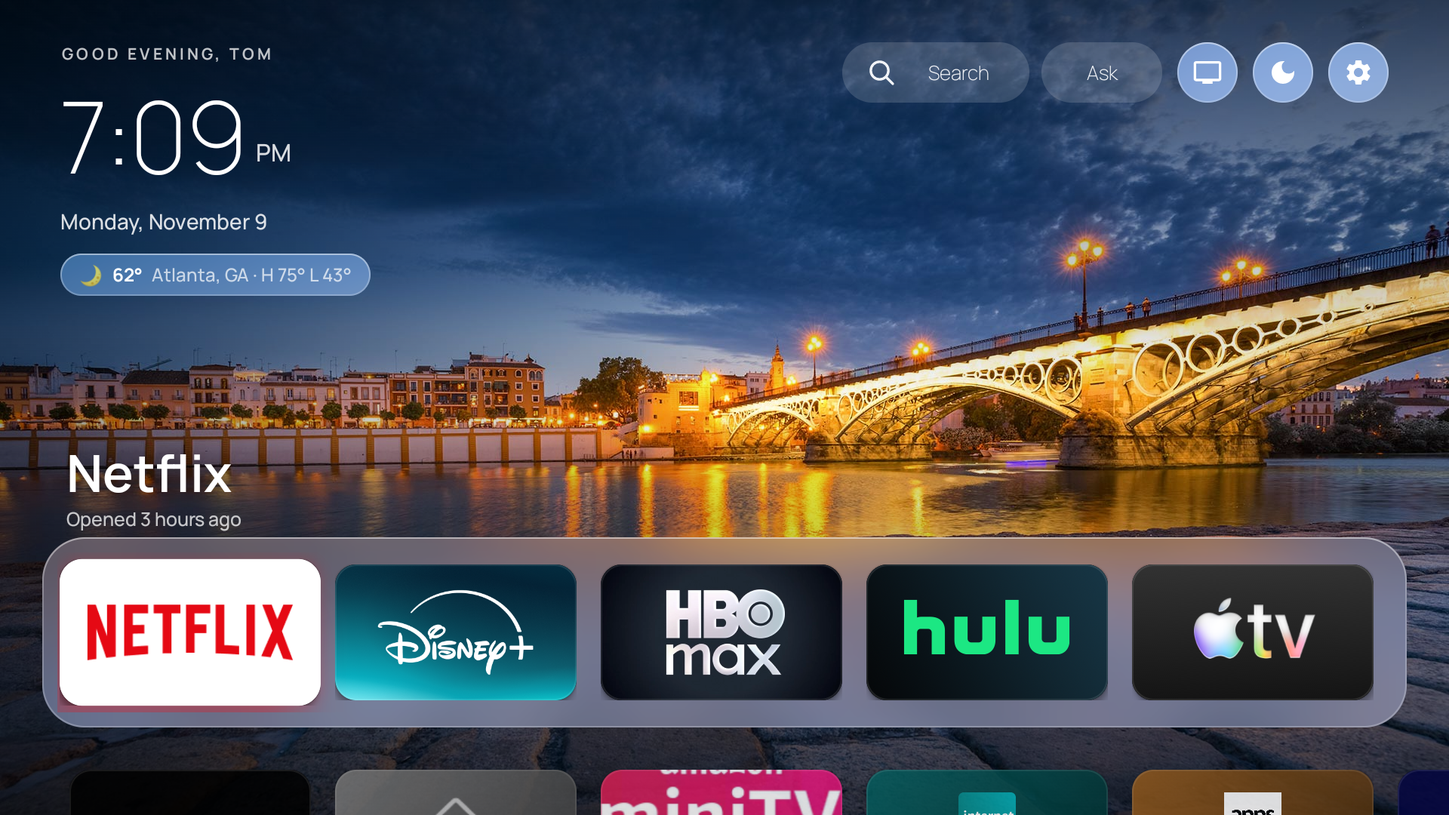
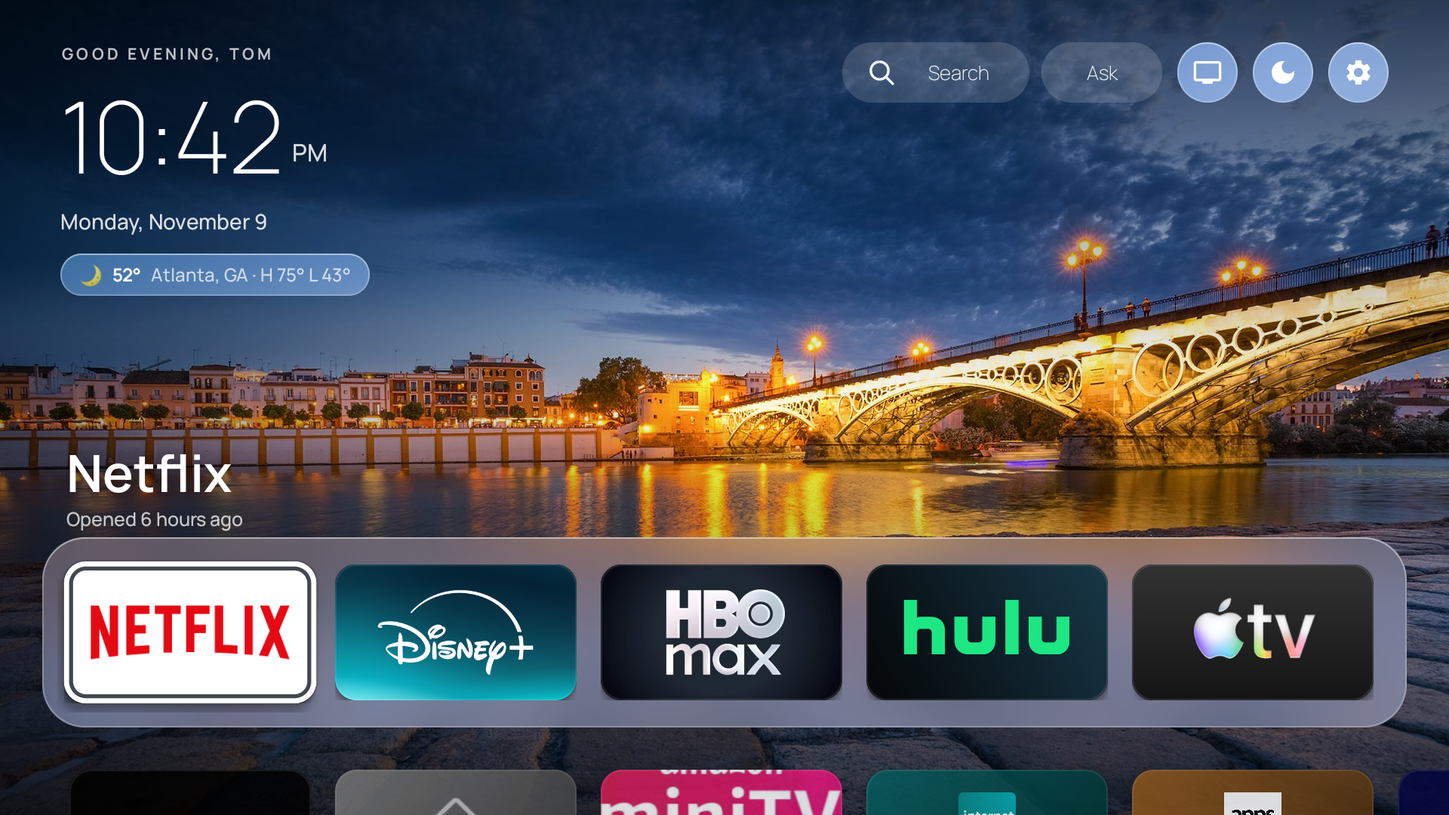
Showcase AttuneTV with real screenshots and clear companion positioning

Changed region(s): [[0.0312, 0.6722, 0.2188, 0.8861], [0.0312, 0.1222, 0.2188, 0.2139], [0.0938, 0.6111, 0.1562, 0.6417]]

diff --git a/README.md b/README.md
@@ -2,165 +2,182 @@
 
 # AttuneTV
 
-### Your TV. Beautifully yours.
+### A calmer home. A conversation about what’s on.
 
-A cinematic, ad-free home screen for Fire TV.<br>Your favorite apps. A fresh view every day. Everything within reach.
+A cinematic, ad-free home screen for Fire TV.<br>An optional AI viewing companion that brings your TV and phone into the same conversation.
 
-[![Build APK](https://github.com/thellis954/attunetv/actions/workflows/build.yml/badge.svg?branch=claude%2Fblissful-hypatia-4dfwls)](https://github.com/thellis954/attunetv/actions/workflows/build.yml) ![Platform: Fire TV](https://img.shields.io/badge/Fire_TV-Android_7.1%2B-152d39?style=flat-square) ![Built with Kotlin](https://img.shields.io/badge/Built_with-Kotlin-7f52ff?style=flat-square) ![Status: Early preview](https://img.shields.io/badge/Status-Early_preview-cce9df?style=flat-square&labelColor=243f39)
+[![Build APK](https://github.com/thellis954/attunetv/actions/workflows/build.yml/badge.svg?branch=claude%2Fblissful-hypatia-4dfwls)](https://github.com/thellis954/attunetv/actions/workflows/build.yml) [![Companion checks](https://github.com/thellis954/attunetv/actions/workflows/samsung.yml/badge.svg?branch=claude%2Fblissful-hypatia-4dfwls)](https://github.com/thellis954/attunetv/actions/workflows/samsung.yml) [![Public APK](https://img.shields.io/github/v/release/thellis954/attunetv?label=public%20APK&color=246878)](https://github.com/thellis954/attunetv/releases/latest) ![Status: Early preview](https://img.shields.io/badge/status-early_preview-d8ad70)
 
-**[Get started](docs/install.md)** · **[Download APK](https://github.com/thellis954/attunetv/releases/latest/download/AttuneTV.apk)** · **[Build & contribute](CONTRIBUTING.md)** · **[Report a bug](https://github.com/thellis954/attunetv/issues/new)**
+**[Install on Fire TV](docs/install.md)** · **[Try the AI companion](https://attunetv-samsung.vercel.app/tv)** · **[Build with us](CONTRIBUTING.md)**
 
-![AttuneTV running on a Fire TV: a full-screen evening photograph, large clock, Search and Ask buttons, and a glass dock with Netflix, Disney+, HBO Max, Hulu and Apple TV.](docs/images/home-fire-tv.png)
+![AttuneTV Home on a real Insignia Fire TV: daily photograph, large clock, Search and Ask, and a glass favorites dock with a white focus ring.](docs/images/home-fire-tv.png)
 
-<sub>Actual Fire TV screenshot, captured on an Insignia TV running AttuneTV 0.4.1. Streaming apps are installed separately.</sub>
+*Real Insignia capture · 0.5.0 development build · Streaming apps are installed separately.*
 
 </div>
 
-## Make room for what you love
+**Settle in. Find your show. Follow your curiosity.** AttuneTV starts with a home screen you control: your apps, your order, a daily photograph and room to breathe. Its companion preview adds a place to ask about the story—with shared viewing context and conversation history on TV and phone.
 
-Turn on your TV and land somewhere that feels like home. A beautiful daily photograph. A quiet clock. The apps you chose, exactly where you put them.
+**Free to download. No always-on computer. Chat is optional; provider API usage is billed separately.**
 
-AttuneTV replaces the Fire TV home experience with a fast, remote-friendly launcher. No sponsored rows or autoplaying trailers on your home screen. No rooting. Your streaming apps, subscriptions and Amazon settings stay in place.
+> **Choose the right preview:** the public Fire TV download is **0.4.2**. The shared API-key chat shown below is in **0.5.0 development source** and the **hosted companion preview**, not that older APK. Samsung installation and live AI/playback verification are still in progress. [What works today ↓](#what-works-today)
 
-| A better way to… | What you get |
-| --- | --- |
-| **Settle in** | Daily photo backgrounds, frosted glass, a large clock and a personal greeting. Choose a photo, app-color glow or one of five dark themes. |
-| **Find something to watch** | A visible **Search** button for installed apps and a shortcut to Fire TV's movie and show search. |
-| **Keep your favorites close** | A dock of real app artwork. Pin, reorder and hide apps with the remote. Press **Down** for all apps. |
-| **Make it personal** | Weather, your next calendar event, 12/24-hour time and a photo ambient mode. |
-| **Skip the remote typing** | Scan a QR code to customize your home screen from your phone on the same Wi-Fi. |
-| **Explore what's next** | **Ask with AttuneTV**, a TV-and-phone AI companion in early preview. [See its current status ↓](#meet-ask-with-attunetv) |
+## A home screen worth coming home to
+
+Daily photography, frosted glass and clear remote focus give your apps a home of their own. Pin the ones you love. Hide the ones you never open. Press Down to see everything.
 
 <table>
 <tr>
-<td width="50%"><img src="app/src/test/snapshots/images/com.attunetv.launcher_HomeSnapshotTest_all_apps.png" alt="All-apps grid over a blurred background"><br><strong>Your whole app library.</strong> One press down from the dock.</td>
-<td width="50%"><img src="app/src/test/snapshots/images/com.attunetv.launcher_HomeSnapshotTest_app_menu.png" alt="Dark glass app menu with Open, Pin, Move, Hide and App info"><br><strong>Your layout, your call.</strong> Organize from the couch.</td>
+<td width="50%"><a href="docs/images/apps-fire-tv.png"><img src="docs/images/apps-fire-tv.png" alt="All-apps grid on an Insignia Fire TV, with the AirPlay tile focused" width="100%"></a><br><strong>Your apps, within reach.</strong><br>One press down from the dock.</td>
+<td width="50%"><a href="docs/images/menu-fire-tv.png"><img src="docs/images/menu-fire-tv.png" alt="Remote-controlled app menu offering Open, Pin to Favorites, Move, Hide and App info" width="100%"></a><br><strong>Make it yours from the couch.</strong><br>Pin, move and hide with the remote.</td>
 </tr>
 </table>
 
-<sub>These two images are layout test renders with placeholder app art. The large screenshot above is from a real TV.</sub>
+*Actual Insignia screenshots from 0.3.3. Earlier artwork and styling are visible. [Screenshot versions and provenance](docs/images/README.md).*
 
-## Get it on your TV
-
-**You don't need to be a developer.** You need a compatible Fire TV, its remote and a Mac, Windows or Linux computer for the one-time installation. After setup, the launcher runs on the TV; the computer can be shut down.
-
-1. **[Download AttuneTV.apk](https://github.com/thellis954/attunetv/releases/latest/download/AttuneTV.apk).** No GitHub account, source-code download or build tools required. [Release notes & checksums](https://github.com/thellis954/attunetv/releases/latest).
-2. **Connect to your TV.** Put the computer and TV on the same Wi-Fi, enable ADB debugging and approve the connection with your remote.
-3. **Install and make it Home.** Follow the copy-and-paste steps, then personalize it with your phone.
-
-### [Start the step-by-step installation →](docs/install.md)
-
-The guide includes **Mac, Windows and Linux instructions**, expected results, updates, troubleshooting and how to go back. No Android Studio or coding required to install a prebuilt APK.
-
-> **Early preview:** the launcher has been tested on an Insignia NS65-UQFL26 with Fire OS 8.1.6.4. Other Android-based Fire TVs are unverified. The APK is sideloaded; there is no app-store or one-click installer yet. Official releases share a consistent signing key for updates. Earlier development builds may need special handling. [Compatibility & update details](docs/install.md#before-you-start).
+| Make the TV yours | How AttuneTV helps |
+| --- | --- |
+| **Find an app or a film** | Search installed apps locally, or jump to Amazon’s movie and show search. |
+| **Set the mood** | Daily photo backgrounds, dark themes, an ambient photo mode and a personal greeting. |
+| **See the useful things** | A large clock, optional weather and your next calendar event. |
+| **Skip remote typing** | Scan a QR code to personalize the launcher from your phone on the same Wi-Fi. |
+| **Keep your existing setup** | No root or Amazon-package removal. Your streaming subscriptions and apps stay in place. |
 
 ## Meet Ask with AttuneTV
 
-**The idea: a conversation beside what you're watching.** Ask about a character, untangle a plot point or explore the story behind a film, right on your TV.
+**Keep the story on the big screen. Take the conversation with you.**
 
-The Fire TV preview and Samsung companion now share **guided API-key setup and a conversation on your phone**. Choose OpenAI, Claude, Grok or Kimi. No always-on Mac is required. Chat is optional; the launcher works without it.
+The companion preview gives TV and phone one shared conversation. Supply the show, episode and where you are; describe the moment you want to explore. Choose **OpenAI, Claude, Grok or Kimi** through guided API-key setup.
 
-**Set up:** open **Ask → Pair phone**, scan the QR code, and approve the matching number with the TV remote. The phone guide explains creating an API key, provider billing, model selection and a daily question limit. Enter the key on your phone, never in a chat message. API usage is billed separately from consumer chat subscriptions.
+Questions to try once connected:
 
-**Keep talking:** set the movie/show, episode and progress on either screen. Questions and answers sync between the native Fire TV panel and phone. Phone dictation appears where the browser supports it; you review the words before sending. You can also use your phone keyboard's microphone. TV remote voice is not advertised where the device cannot supply it.
+- “We’re halfway through episode two. Can you explain the relationship between these characters?”
+- “I’m watching a film set in 1920s Chicago. What historical context would help?”
+- “What should I pay attention to in this director’s use of color?”
 
-**Where it stands today:** version 0.5.0 is a development preview. Pairing, context synchronization, draft protection and provider contracts have automated coverage. Real model responses and streaming playback compatibility still require device verification. Streaming-app chat stays **hidden in normal builds** until that verification passes; explicitly labeled playback-test builds can exercise candidate apps.
+![AttuneTV companion browser preview with viewer-entered show and episode context beside a shared conversation. The answer is explicitly labeled Test response.](docs/images/companion-tv.png)
 
-Prime Video, Netflix, Apple TV, Disney+, Hulu, HBO Max, Peacock and Paramount+ are **integration targets, not a confirmed support list**. Each must pass playback, remote-input and dismissal checks before its overlay is enabled.
+*Browser test capture of the actual companion UI. The displayed answer is a test fixture, not a live model response or a Samsung-device capture.*
 
-The assistant does not watch or listen to your video. You can supply a title, episode or scene description; automatic playback information depends on what the app and device expose. Answers can be wrong or contain spoilers.
+### Pair once. Keep talking.
 
-[Read the native architecture and verification checklist →](docs/standalone-chat.md)
+<p align="center"><a href="docs/images/companion-phone.png"><img src="docs/images/companion-phone.png" width="260" alt="Phone companion with shared viewing context, conversation, question field and optional Dictate button"></a></p>
 
-## Samsung TV companion — hosted preview
+1. **Scan and approve.** Open **Pair phone**, scan the QR code and approve the matching number on the TV. To explore today, open the hosted preview on a computer and pair your phone.
+2. **Connect the AI you choose.** The phone guide links to your provider’s billing and API-key pages, checks access, and lets you select a model and daily question limit. Enter your key privately on the phone.
+3. **Set what’s playing.** Add a title, episode and progress. Ask on either screen. The phone conversation can continue after the TV companion closes, so you can return to your streaming app.
+4. **Type—or dictate where supported.** Compatible phone browsers offer Dictate; review the words before sending. Your phone keyboard’s microphone is another option. TV remote voice support varies.
 
-**Keep watching on the TV. Keep the conversation on your phone.** A separate
-Tizen preview adds full-screen TV chat, QR-paired phone chat and a shared
-conversation with movie, episode and progress context you supply.
 
-Its phone setup walks you through getting your own **OpenAI, Claude, Grok or Kimi
-API key**, reviewing provider billing, checking access and choosing a model.
-API usage is billed by your provider; it is not automatically included in a
-consumer chat subscription. The companion uses a hosted service so the phone
-can keep chatting while Samsung suspends the TV app. Viewers do not need an
-always-on Mac.
+*Phone browser test capture; its answer and speech recognition use test fixtures. No real API key appears in these screenshots.*
 
-**[Try the hosted preview](https://attunetv-samsung.vercel.app/tv)** — pair your
-phone and follow the guided API-key setup. Hosting runs on Vercel with persistent
-Neon storage. Deployed pairing and cross-screen context sync are verified;
-Samsung hardware installation and real provider calls are still pending. This is not the Fire TV APK, and it cannot overlay Samsung’s
-built-in streaming apps. [Samsung preview, setup and deployment guide](samsung/README.md).
+**Your context, your choice.** AttuneTV does not capture the movie, listen to its soundtrack or read its subtitles. It uses the question and viewing context you provide; any automatic playback metadata depends on the app and device. Episode/progress instructions help limit spoilers, but accuracy and spoiler avoidance are not guaranteed.
+
+**[Open the hosted companion preview →](https://attunetv-samsung.vercel.app/tv)**
+
+## Why this combination?
+
+A quiet launcher makes choosing something easier. A viewing companion gives curiosity somewhere to go after you press Play. AttuneTV brings them together around three choices:
+
+- **Your screen:** personal Home, visible search and remote-first navigation.
+- **Your AI:** a choice of provider and model, with setup guidance and explicit API costs.
+- **Your place to chat:** a shared TV-and-phone conversation, including a phone path when the TV platform cannot show an overlay.
+
+Custom launchers such as [Projectivy](https://github.com/spocky/miproja1) and [Clean Your TV](https://github.com/Gathin23/cleanyourtv) already make a strong case for a better home screen. [Gemini on Google TV](https://support.google.com/googletv/answer/16522213?hl=en) and [Prime Video’s X-Ray](https://www.aboutamazon.com/news/entertainment/what-is-x-ray-on-prime-video) show the value of questions and context around entertainment. AttuneTV’s direction is **personal Home + provider choice + a shared viewing conversation**. [Read the positioning and tradeoffs](docs/positioning.md).
+
+## What works today
+
+| Experience | Status and next step |
+| --- | --- |
+| **Fire TV launcher** | Tested on Insignia NS65-UQFL26 / Fire OS 8.1.6.4. Public APK: 0.4.2; current source: 0.5.0 preview. Other models need testing. **[Install guide](docs/install.md) · [Public APK](https://github.com/thellis954/attunetv/releases/latest/download/AttuneTV.apk)** |
+| **Shared TV + phone chat** | Hosted pairing, setup links and context sync verified. Conversation flows have automated fixture coverage; real provider responses still need end-to-end validation. **[Hosted preview](https://attunetv-samsung.vercel.app/tv) · [Architecture](docs/standalone-chat.md)** |
+| **Chat over Fire TV streaming apps** | Under development. **Hidden in normal builds** until each integration passes real playback, focus and dismissal checks. **[Verification checklist](docs/standalone-chat.md#verification)** |
+| **Samsung Tizen companion** | Web preview built; Samsung signing, installation and hardware verification pending. Full-screen TV chat plus phone chat during playback; **no overlay over built-in streaming apps and no Smart Hub replacement**. **[Samsung setup](samsung/README.md)** |
+
+Prime Video, Netflix, Apple TV, Disney+, Hulu, HBO Max, Peacock and Paramount+ are **Fire TV integration targets**, not a confirmed overlay support list. Launching an installed streaming app from Home is separate from supporting chat inside its player.
+
+## Get it on your Fire TV
+
+**No coding or Android Studio required.** Bring an Android-based Fire TV, its remote, and a Mac, Windows or Linux computer for installation.
+
+1. **[Download the public APK](https://github.com/thellis954/attunetv/releases/latest/download/AttuneTV.apk).** No GitHub account required. [Release notes and checksums](https://github.com/thellis954/attunetv/releases/latest).
+2. **Connect on the same home network.** Enable ADB debugging and approve the connection with the TV remote.
+3. **Install, make it Home, personalize.** Follow the guide’s copy-and-paste commands, expected results and undo instructions. Keep other accessibility services intact.
+
+### [Follow the installation guide →](docs/install.md)
+
+After setup, the launcher runs on the TV and the computer can shut down. Chat uses the hosted companion; viewers do not need to run a server. The Samsung preview has a separate installation process and cannot use the APK.
 
 ## Learn the remote in a minute
 
-| On AttuneTV Home | Action |
+| On Home | Action |
 | --- | --- |
 | **Left / Right** | Browse favorites. |
 | **Down** | Open all apps. |
-| **Up** from the dock | Reach Search, Ask and the round shortcuts. |
+| **Up** from the dock | Reach Search, Ask and shortcuts. |
 | **OK** | Open the focused app or action. |
-| **Menu ☰** or **hold OK** on an app | Open, pin/unpin, move, hide or view app info. |
-| **Back** | Close a menu or return from the app grid. |
-| **Home** | Return to AttuneTV when Home redirection is enabled. |
+| **Menu ☰ / hold OK** on an app | Open, pin, move, hide or view app info. |
+| **Back** | Close a menu or return from the grid. |
+| **Home** | Return to AttuneTV with Home redirection enabled. |
 
-The round shortcuts open **Inputs**, **Ambient mode** and **Settings**. In move mode, use the arrows to position an app and press OK to finish.
+Round shortcuts open **Inputs**, **Ambient mode** and **Settings**. Launcher personalization uses **Settings → Set up from your phone**; AI pairing uses **Ask → Pair phone** in 0.5.0. They are separate QR flows.
 
-## Built for people who like to build
+## Build the next version with us
 
-Native Kotlin. One Android app module. Real TV layouts you can render in tests. Optional shared AI chat uses the Vercel/Neon companion in `samsung/`; launcher operation remains independent of it.
-
-The interesting work lives in small, focused pieces: remote navigation, CPU-blurred glass that works on Android 11, a narrowly scoped Home redirect, and native TV-and-phone chat. Bring your device, your taste or your debugging skills.
+The work spans **native Kotlin for Fire TV**, an **ES5-compatible Tizen web client**, and a **Node service on Vercel with Neon Postgres**. The launcher runs independently of the chat service. Tests cover remote focus, pairing, shared context, provider request formats and session isolation.
 
 ```bash
 git clone --branch claude/blissful-hypatia-4dfwls https://github.com/thellis954/attunetv.git
 cd attunetv
-# Configure JDK 17 and Android SDK 35 first; see the contributor guide.
+# First configure JDK 17 + Android SDK 35; see CONTRIBUTING.md.
 ./gradlew assembleRelease testDebugUnitTest
 ```
 
-**[Developer setup & contribution guide →](CONTRIBUTING.md)**
+For the companion, start in [`samsung/`](samsung/README.md) with **Node 24 and Python 3**. Automated tests use a fixture provider; you do not need to buy API credits to contribute.
 
-Useful contributions include device compatibility reports, remote-focus polish, accessibility improvements, better app artwork fallbacks and verified streaming integrations. For a new integration, real playback evidence matters as much as a passing build.
+| Want to help? | A useful first contribution |
+| --- | --- |
+| **Own a TV** | Share its model, OS, app version and screenshots in a [device report](https://github.com/thellis954/attunetv/issues/new). |
+| **Care about design** | Improve remote focus, long labels, contrast and app-artwork fallbacks. |
+| **Build Android apps** | Test a streaming integration for continued playback and reliable dismissal. |
+| **Build for the web** | Improve phone onboarding, accessibility or Tizen compatibility. |
 
-## A few things worth knowing
+**[Contributor guide](CONTRIBUTING.md)** · **[Chat architecture](docs/standalone-chat.md)** · **[Samsung / service development](samsung/README.md)** · **[Release process](docs/releasing.md)**
+
+## Before you settle in
 
 <details>
-<summary><strong>Does this remove Amazon's launcher or change my subscriptions?</strong></summary>
+<summary><strong>Is this free? Can I use my ChatGPT subscription?</strong></summary>
 
-No. An accessibility service notices Amazon's Home screen and brings AttuneTV forward. Amazon packages stay installed. You may briefly see Amazon Home during the handoff. Streaming apps keep their own accounts, subscriptions, ads and playback behavior.
+The launcher is free to download and works without AI. The companion uses your own provider API key; API billing is separate from consumer chat subscriptions. Its daily question limit is not a dollar spending cap. Set provider-side budgets where available. Self-hosting can also incur hosting costs.
 
 </details>
 
 <details>
-<summary><strong>Do I need an always-on computer, a phone or a ChatGPT account?</strong></summary>
+<summary><strong>Does it remove Amazon apps or block ads in streaming services?</strong></summary>
 
-A computer is used for installation and updates, not everyday launcher operation. A phone is optional for personalization. AI chat is optional. It uses the hosted companion and a provider API key, and is still undergoing end-to-end validation. Internet access is needed for online features such as fresh photos, weather and chat.
-
-</details>
-
-<details>
-<summary><strong>How does search work?</strong></summary>
-
-Installed-app search is local. Movie and show search opens Amazon's Fire TV catalogue search, where results and streaming availability are supplied by Amazon. It is not an independent universal streaming catalogue. Amazon's launcher must remain installed.
+No. Home redirection brings AttuneTV forward when Amazon Home opens; Amazon packages remain installed. A brief Home handoff can be visible. Ad-free refers to AttuneTV’s home screen, not ads within other apps. Turn Redirect Home button off in Settings to go back, or follow the [uninstall guide](docs/install.md#go-back-or-uninstall).
 
 </details>
 
 <details>
-<summary><strong>What information does the app access?</strong></summary>
+<summary><strong>What about privacy?</strong></summary>
 
-Home redirection does not read screen content. Optional chat uses your question and supplied context; it does not capture video, audio or subtitles. The chat pairing credential is encrypted on the TV; provider keys and shared conversations are encrypted on the hosted service. The separate launcher-personalization page is temporary, PIN-protected local HTTP; use it on trusted Wi-Fi. Weather, photos and calendar feeds contact their respective providers. [More about chat and playback metadata](docs/standalone-chat.md).
+The Home service does not read screen content. Chat sends your questions and supplied context to your chosen provider through the hosted service. Provider keys and stored conversations are encrypted at rest; this is not end-to-end encryption from the service operator. Use Disconnect & erase to remove the room, key and sessions from the service. Provider retention policies apply separately.
+
+Optional phone dictation uses the browser’s speech service. The separate launcher-settings page is temporary, PIN-protected local HTTP; use trusted Wi-Fi. Photos, weather and calendar feeds contact their respective providers. Never include keys, pairing credentials or private calendar URLs in bug reports.
 
 </details>
 
 <details>
-<summary><strong>Can I go back to the original home screen?</strong></summary>
+<summary><strong>Is it open source?</strong></summary>
 
-Yes. In AttuneTV Settings, turn **Redirect Home button** off. The installation guide also explains how to remove only AttuneTV's accessibility entry and uninstall the app while preserving other services.
+The code is public and contributions are welcome, but the repository currently has no declared license. Ask the maintainer before redistributing it or incorporating the code into another product.
 
 </details>
 
 ---
 
-**Make your TV feel like yours.** [Get started](docs/install.md), [share a device report](https://github.com/thellis954/attunetv/issues/new), or star the repo to help others discover it.
+**Make yourself at home. Stay curious.** [Install AttuneTV](docs/install.md), [explore the companion](https://attunetv-samsung.vercel.app/tv), or [help build what comes next](CONTRIBUTING.md). Star the repo to help other TV tinkerers find it.
 
-Built by [Tom Ellis](https://github.com/thellis954). AttuneTV is an independent project, not an official Amazon, OpenAI or streaming-service app. Product names and logos belong to their respective owners.
+Built by [Tom Ellis](https://github.com/thellis954). Independent project; not an official Amazon, Samsung, OpenAI or streaming-service app. Product names and logos belong to their respective owners.

diff --git a/docs/positioning.md b/docs/positioning.md
@@ -1,0 +1,57 @@
+# AttuneTV positioning
+
+[← README](../README.md) · Research checked November 20, 2026
+
+## The promise
+
+**A calmer home. A conversation about what’s on.**
+
+AttuneTV combines a personal Fire TV home screen with an optional viewing companion whose conversation carries between TV and phone. Provider choice, shared context and a phone path during playback are the product direction. The launcher is usable independently while companion integrations mature.
+
+The first audience is people who want their existing TV to feel more personal and enjoy talking about what they watch. The developer audience is people interested in remote-first interfaces, older TV hardware and accountable AI integrations.
+
+## The landscape
+
+These are different categories of alternatives, not a claim that every product competes feature-for-feature. Descriptions below come from each project's own documentation; the positioning implications are our interpretation. This is not a hands-on performance comparison.
+
+| Alternative | Its documented focus | Implication for AttuneTV |
+| --- | --- | --- |
+| [Projectivy Launcher](https://github.com/spocky/miproja1#projectivy-launcher) | An ad-free, customizable Android TV launcher with personalization and device features. | Beautiful, ad-free Home is an expectation in this category. Lead with the combination of Home and a viewing companion rather than claiming visual customization is unique. |
+| [Clean Your TV](https://github.com/Gathin23/cleanyourtv#the-launcher) | Debloating tools and a small native launcher, with themes, optional app library and module cards. Its launcher deliberately has no network permission. | Make AttuneTV's cinematic design, phone setup and optional connected companion clear. Preserve Amazon packages in our install path. Do not position it as smaller, faster or more private without comparative evidence. |
+| [Gemini for Google TV](https://support.google.com/googletv/answer/16522213?hl=en) | Conversational help, discovery and connected services on eligible Google TV devices; availability depends on device, region and language. | AI on TV is already a category. Our opportunity is provider choice and the shared TV/phone workflow, starting with Fire TV and a Samsung companion. Hardware support must be earned, not implied. |
+| [Prime Video X-Ray](https://www.aboutamazon.com/news/entertainment/what-is-x-ray-on-prime-video) and [X-Ray Recaps](https://www.aboutamazon.com/news/entertainment/amazon-prime-video-x-ray-recaps) | Information tied to Prime Video viewing, including cast/background material and AI-generated recaps. | Service-owned features have access to content and playback context that we do not. Offer an ongoing viewer-directed conversation; don't claim equivalent scene awareness or guaranteed spoiler safety. |
+
+## What we can own
+
+- **A coherent living-room experience.** Personal Home gets viewers to their apps; the companion gives them a place to explore questions afterward.
+- **Choice of AI provider.** Guided API-key setup offers OpenAI, Claude, Grok and Kimi. The promise is a clear connection flow, not free API access or universal model compatibility.
+- **Continuity between screens.** QR pairing, TV approval, shared context and history. Phone chat continues after the TV companion closes. This matters on Samsung, where a normal third-party app cannot overlay another streaming app.
+- **Viewer-supplied context.** Explicit title, episode and progress make the basis of the conversation visible. We do not imply that the app watches or hears protected playback.
+- **Reversible launcher setup.** Keep Amazon packages installed and preserve other accessibility services. This is a product principle, not a claim that alternatives cannot be reversed.
+
+These are differentiators of the combination. We have not established that every individual feature is exclusive to AttuneTV.
+
+## Match the invitation to the build
+
+| Visitor | Primary invitation | What to explain before they start |
+| --- | --- | --- |
+| Wants a better Fire TV Home | Install the public APK using the beginner guide | Public release is 0.4.2; companion API-key changes are in 0.5.0 development source. ADB and a computer are needed for setup. |
+| Wants to explore the companion | Open the hosted preview and pair a phone | API key and separate provider billing are required for real answers; live inference validation remains open. |
+| Owns a Samsung TV | Follow the Tizen developer-preview guide | Signing and Developer Mode are required. Device installation is pending; it is full-screen chat plus a phone companion, not a replacement Smart Hub or cross-app overlay. |
+| Wants to contribute | Build, run fixture tests, submit a device report or focused change | No API credit purchase required for automated tests. Real playback evidence is needed before enabling an overlay integration. |
+
+## Claims to hold until verified
+
+Do not call this the official ChatGPT TV app, a universal streaming assistant, scene-aware, spoiler-proof, compatible with every TV, or an unlimited free AI service. Streaming candidates are not a support list. The repository has no declared license, so public source should not be advertised as licensed open source.
+
+Screenshots should identify their version and origin. Browser fixtures demonstrate UI and synchronization, not real model quality or Samsung hardware behavior. See [image provenance](images/README.md).
+
+## What would strengthen the next launch
+
+1. Verify live answers and error recovery with user-controlled API credentials.
+2. Finish Samsung signing/install and capture real hardware evidence.
+3. Verify Fire TV playback, remote focus, Back/Home and idle dismissal per streaming app.
+4. Publish a signed release containing the shared companion flow, then align the download and README version claims.
+5. Choose an explicit software license before promoting reuse or redistribution.
+
+These are release gates and proposed priorities, not completed features or dated commitments.

diff --git a/docs/images/README.md b/docs/images/README.md
@@ -1,0 +1,25 @@
+# Screenshot provenance
+
+[← AttuneTV](../../README.md)
+
+Images are unretouched captures of the app. README sizing is presentation only. No app UI, artwork or model answers were painted into screenshots. Streaming app logos belong to their respective owners and do not imply endorsement or verified chat integrations.
+
+| Image | Origin | What it establishes |
+| --- | --- | --- |
+| `home-fire-tv.png` | Real Insignia NS65-UQFL26 / Fire OS 8.1.6.4 capture, November 9, 2026. Initial installed 0.5.0-verify build, before the final glass/font refinements in source commit `6599f93`. | Launcher Home on a physical TV; no final-build or streaming-overlay claim. Replaces the older 0.4.1 README capture. |
+| `apps-fire-tv.png` | Real Insignia capture from the 0.3.3 verification session. | All-apps grid on hardware. Earlier styling/artwork, not a current-build acceptance screenshot. |
+| `menu-fire-tv.png` | Real Insignia capture from the same 0.3.3 session. | Remote app-organization menu on hardware. |
+| `companion-tv.png` | Chromium test capture, November 20, 2026, generated from `samsung/test/browser/companion.spec.mjs` at app source `6599f93`. | Actual browser UI, shared manual context and fixture conversation. Not captured on a Samsung TV and not a live AI answer. |
+| `companion-phone.png` | Same browser test, 390px phone viewport, full-page screenshot. Speech recognition and provider responses are test fixtures. | Phone interface, shared conversation and optional Dictate control. The conversation panel scrolls independently; its top message is partly outside that panel's visible area. |
+
+## Refreshing the browser captures
+
+From `samsung/`, after the contributor prerequisites and Chromium are installed:
+
+```sh
+npm run test:browser
+```
+
+Review `test-results/screens/tv-chat.png` and `phone-chat.png`, then copy those two files here as `companion-tv.png` and `companion-phone.png`. Keep the visible **Test response** / **fixture-model** labels and the README captions. Do not publish pairing links, QR credentials, API keys or private conversations.
+
+For physical captures, record app version, source commit, TV model and OS. Capture only when the viewer is available; never interrupt playback for marketing screenshots. Keep older images labeled until replaced with verified captures of the new build.

diff --git a/docs/install.md b/docs/install.md
@@ -6,6 +6,8 @@ You do not need to write code or install Android Studio. This guide uses a small
 
 ## Before you start
 
+**Release choice:** the current public APK is **0.4.2**. The shared TV/phone API-key companion is in **0.5.0 development source** and the [hosted preview](https://attunetv-samsung.vercel.app/tv); downloading 0.4.2 does not include that newer flow. For companion testing, use the hosted preview or follow the [developer guide](../CONTRIBUTING.md).
+
 Have these ready:
 
 - An **Android-based Fire TV**, its remote and a Mac, Windows or Linux computer on the **same home network**.
@@ -172,7 +174,7 @@ Paste an iCal/ICS subscription link into phone setup, one per line. Use your cal
 
 </details>
 
-**Done.** Close the terminal and shut down the computer if you like. The home screen runs on the TV. For optional chat, see [Ask with AttuneTV](../README.md#meet-ask-with-attunetv); select Ask → Pair phone for the guided API-key connection.
+**Done.** Close the terminal and shut down the computer if you like. The home screen runs on the TV. For optional chat, see [Ask with AttuneTV](../README.md#meet-ask-with-attunetv). The guided **Ask → Pair phone** API-key flow requires the 0.5.0 development build; the public 0.4.2 APK predates it.
 
 ## Updating
 

diff --git a/CONTRIBUTING.md b/CONTRIBUTING.md
@@ -83,7 +83,7 @@ Paparazzi downloads its rendering dependencies on first use. If a download fails
 
 `StreamingSupport.verifiedPackages` is the release allowlist. The candidate map is a test queue, not a support claim. Keep unknown and unverified apps hidden.
 
-For each provider, verify a real answer, remote keyboard/focus, continued playback, cancellation, Back/Home/app-switch dismissal and idle timeout. Document metadata availability separately. Never bypass protected-video capture or infer scene awareness from a title and timestamp. See the [acceptance checklist](docs/standalone-chat.md#acceptance-test).
+For each provider, verify a real answer, remote keyboard/focus, continued playback, cancellation, Back/Home/app-switch dismissal and idle timeout. Document metadata availability separately. Never bypass protected-video capture or infer scene awareness from a title and timestamp. See the [acceptance checklist](docs/standalone-chat.md#verification).
 
 ### Preserve the TV
 

diff --git a/samsung/README.md b/samsung/README.md
@@ -202,8 +202,10 @@ TV bearer credentials are stored on the TV. Disconnect deletes active records;
 operators must separately manage backup retention. Keys must be revoked in the
 provider console to stop their use outside this service.
 
-Voice entry can use a phone keyboard’s own dictation where available. There is
-no in-app microphone capture, TV voice integration, or automatic scene recognition.
+Phone dictation is available where the browser exposes speech recognition and
+starts only when the viewer selects Dictate.
+Viewers review the transcript before sending; phone keyboard dictation is an alternative.
+There is no guaranteed TV remote voice support or automatic scene recognition.
 Answers and spoiler avoidance are not guaranteed.
 
 ### Hosted smoke check
